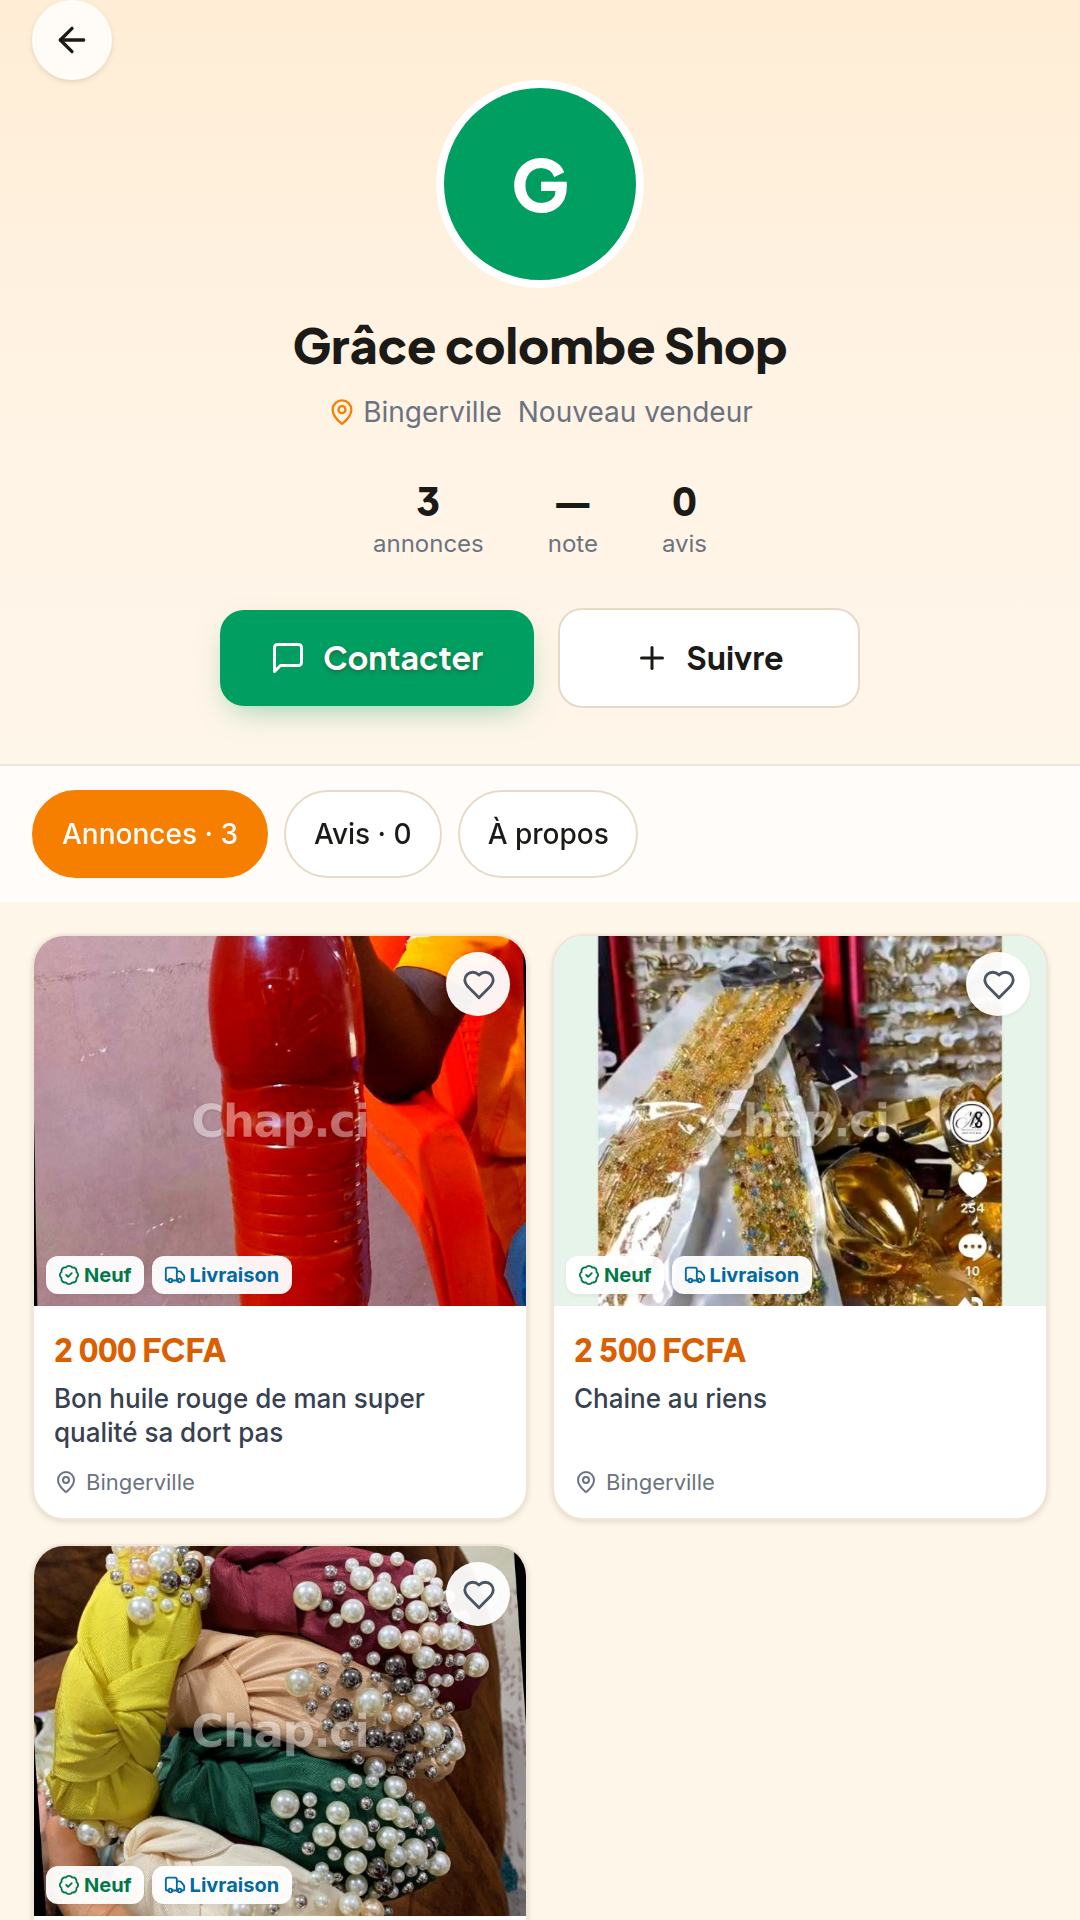
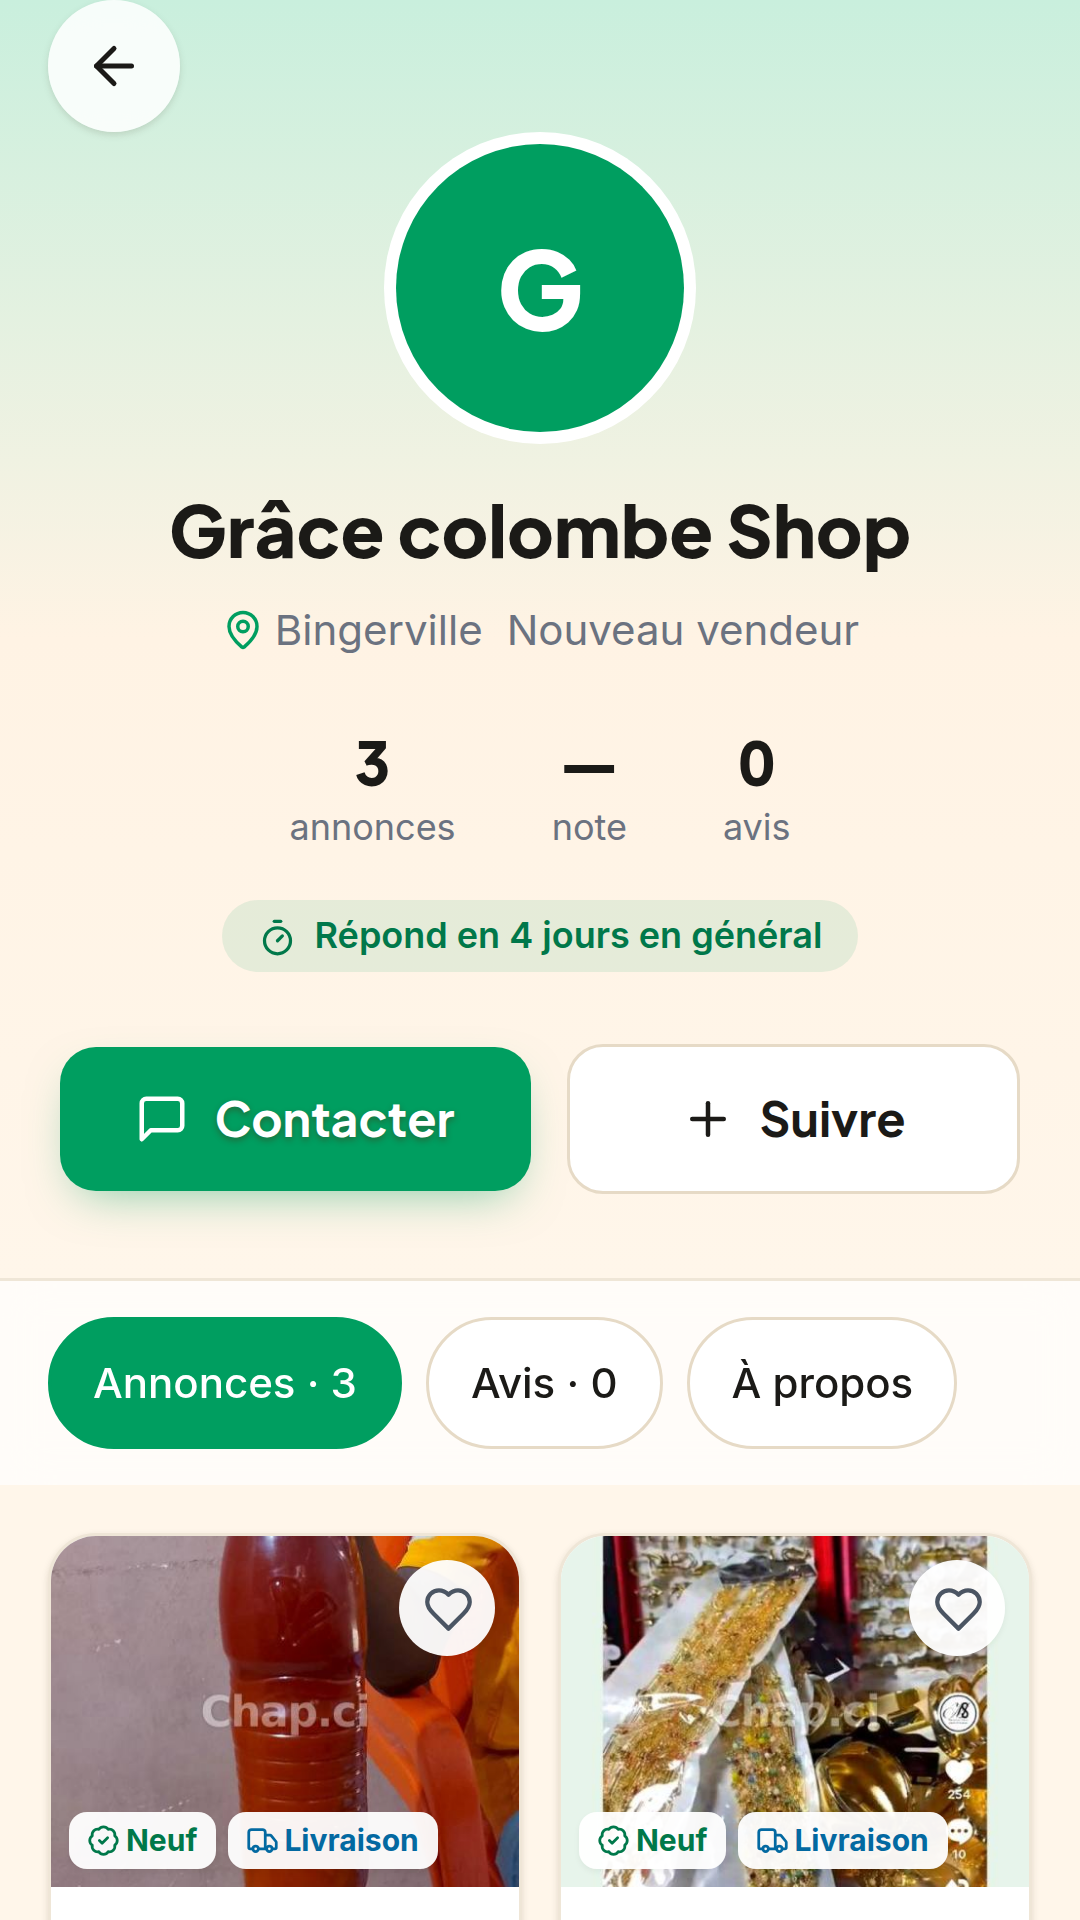
Les 19 captures d’écran des boutiques refaites, et une pub ne se fait plus couper sur les téléphones
Suite de « toutes les images doivent avoir le nouveau logo ». Les captures que
Google Play affiche dataient du 3 août : l’ancienne épingle orange dans
l’en-tête, l’ancien bandeau, l’ancienne mise en page. C’est la première chose
que voit quelqu’un qui hésite à installer l’application.

CE QUE LES CAPTURES ONT RÉVÉLÉ EN CHEMIN
-----------------------------------------
Sur un téléphone de 360 px — la largeur de la plupart des téléphones ici — un
titre de publicité en « machine à écrire » occupait 480 px, centré : il était
donc COUPÉ DE SOIXANTE PIXELS DE CHAQUE CÔTÉ. Le bandeau étant en
overflow-hidden, rien ne débordait à l’écran : le message était simplement
amputé à ses deux bouts. Et il entraînait la phrase de description avec lui,
le conteneur prenant la largeur de son plus large enfant.

Sur la page la plus vue du site, pour un annonceur qui a PAYÉ sa phrase.

Réparé en deux endroits, et les deux comptent :
· la ligne est bornée au conteneur, et sous 768 px le texte revient à la ligne
  avec une apparition au lieu de la machine à écrire — le message passe avant
  l’effet ;
· le conteneur reçoit `w-full min-w-0`, pour que la MÊME panne ne revienne pas
  par une autre animation demain.
Mesuré avant/après : 480 px de large à la position −60 → 360 px à la position
0, et zéro élément plus large que l’écran. Le rendu sur grand écran est
inchangé, vérifié à 1 280 px.

LES CAPTURES
------------
5 écrans × 3 formats pour Play, plus les 4 du dossier marketing. Le front vient
[…]

diff --git a/src/index.css b/src/index.css
@@ -249,7 +249,30 @@ select:focus-visible,
 .ad-anim-balance { animation-name: adk-balance; animation-duration: 1.1s; transform-origin: top center }
 .ad-anim-vacille { animation-name: adk-vacille; animation-duration: 1.4s }
 .ad-anim-surligne { animation-name: adk-surligne; background: linear-gradient(transparent 62%, rgba(0,158,96,.55) 0) left / 0 100% no-repeat }
-.ad-anim-machine { animation-name: adk-machine; animation-duration: 2.4s; animation-timing-function: steps(30, end); display: inline-block; overflow: hidden; white-space: nowrap; max-width: fit-content }
+/* ⚠ `white-space: nowrap` est ce qui FAIT la machine à écrire — le texte doit
+   tenir sur une ligne pour que la largeur qui grandit révèle les lettres. Mais
+   `max-width: fit-content` laissait cette ligne dépasser l'écran : mesuré le
+   31/08 sur un téléphone de 360 px, un titre de pub occupait 480 px, centré,
+   donc COUPÉ DE SOIXANTE PIXELS DE CHAQUE CÔTÉ. Le bandeau étant en
+   `overflow-hidden`, rien ne débordait visiblement : le message était
+   simplement amputé à ses deux bouts, sur la page la plus vue du site, pour un
+   annonceur qui a payé. Et il n'entraînait pas le titre seul — le conteneur
+   prenant la largeur de son plus large enfant, la phrase de description était
+   rognée avec lui.
+   `min(fit-content, 100%)` borne la ligne au conteneur. */
+.ad-anim-machine { animation-name: adk-machine; animation-duration: 2.4s; animation-timing-function: steps(30, end); display: inline-block; overflow: hidden; white-space: nowrap; max-width: min(fit-content, 100%) }
+/* Borner ne suffit pas : sur un téléphone, la ligne bornée serait tronquée à
+   droite, et la fin du message perdue. Sous 768 px le texte revient donc à la
+   ligne, et l'apparition remplace la machine à écrire. Le message passe avant
+   l'effet — un annonceur achète sa phrase, pas son animation. */
+@media (max-width: 767px) {
+  .ad-anim-machine {
+    white-space: normal;
+    animation-name: adk-apparition;
+    animation-duration: .9s;
+    animation-timing-function: ease-out;
+  }
+}
 .ad-anim-defilement { animation-name: adk-defilement; animation-duration: 1.1s }
 .ad-anim-flou { animation-name: adk-flou }
 .ad-anim-flouzoom { animation-name: adk-flouzoom }

diff --git a/src/components/PromoBanner.tsx b/src/components/PromoBanner.tsx
@@ -87,7 +87,13 @@ export function PromoBanner() {
             {img && <AdImageFill src={img} />}
             {/* Voile léger : lisibilité du texte sans assombrir l'image. */}
             <div className="absolute inset-0 bg-gradient-to-t from-black/45 via-black/5 to-black/20" />
-            <div className="relative flex flex-col items-center gap-3 [text-shadow:0_2px_10px_rgba(0,0,0,.55)]">
+            {/* `w-full min-w-0` : sans eux, cette colonne prend la largeur de
+                son plus large enfant et peut sortir du bandeau — c'est ce qui
+                a coupé un titre de pub des deux côtés sur les téléphones de
+                360 px. La règle CSS de `.ad-anim-machine` répare la cause du
+                jour ; ces deux classes empêchent la MÊME panne de revenir par
+                une autre animation. */}
+            <div className="relative flex w-full min-w-0 flex-col items-center gap-3 [text-shadow:0_2px_10px_rgba(0,0,0,.55)]">
               {ad.title && (
                 <AnimatedAdText
                   text={ad.title}
